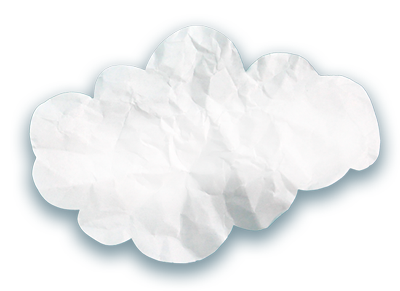
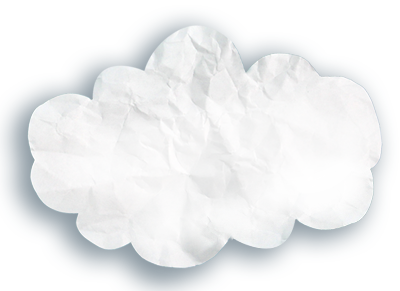
new style

diff --git a/style/style.css b/style/style.css
@@ -443,8 +443,8 @@ tbody.collapse.in { display: table-row-group; }
 
 .context-mark-body span { display: block; width: 75px; text-align: center; color: #1e4982; line-height: 14px; }
 
-.btn { position: relative; display: inline-block; width: 120px; height: 45px; background: url("../i/icons/btn.png") no-repeat center; text-align: center; color: #fff; font-size: 20px; line-height: 45px; }
-.btn:hover, .btn:focus { color: #fff; text-decoration: none; }
+.btn { position: relative; display: inline-block; width: 120px; height: 45px; background: url("../i/icons/btn.png") no-repeat; background-position: 0 0; text-align: center; color: #fff; font-size: 20px; line-height: 45px; }
+.btn:hover, .btn:focus { color: #fff; text-decoration: none; background-position: 0 -45px; }
 
 .cloud-1 { position: relative; left: 50%; margin: 0 0 0 -275px; padding: 58px 120px 0 130px; width: 550px; height: 320px; background: url("../i/cloud-1.png") center no-repeat; }
 .cloud-1 .context-title { padding: 0 25px; }
@@ -463,26 +463,26 @@ tbody.collapse.in { display: table-row-group; }
 .cloud-4 .context-title { padding: 0 80px 0 0; }
 .cloud-4 .context-inner-footer { padding: 0 40px 0 0; }
 
-@media (min-width: 767px) { .cloud-1 { left: 50%; margin: 0 0 0 -390px; padding: 40px 25px 0 58px; width: 400px; height: 223px; background: url("../i/cloud-1-m.png") center no-repeat; }
+@media (min-width: 767px) { .cloud-1 { left: 50%; margin: 0 0 0 -390px; padding: 30px 25px 0 58px; width: 400px; height: 223px; background: url("../i/cloud-1-m.png") center no-repeat; }
   .cloud-1 .context-inner-footer { padding: 8px 40px 0 10px; }
   .cloud-1 .btn { top: 0; }
   .cloud-1 .context-title { padding: 0 58px 0 16px; } }
-@media (min-width: 767px) { .cloud-2 { left: 50%; margin: 25px 0 0 -240px; padding: 70px 35px 0 48px; width: 400px; height: 310px; background: url("../i/cloud-2-m.png") center no-repeat; }
-  .cloud-2 .context-inner-footer { padding: 8px 40px 0 0; }
+@media (min-width: 767px) { .cloud-2 { left: 50%; margin: 25px 0 0 -240px; padding: 74px 35px 0 48px; width: 400px; height: 310px; background: url("../i/cloud-2-m.png") center no-repeat; }
+  .cloud-2 .context-inner-footer { padding: 5px 40px 0 0; }
   .cloud-2 .context-title { padding: 3px 25px 0 52px; } }
-@media (min-width: 767px) { .cloud-3 { left: -50%; margin: -560px -370px 0 0; padding: 55px 15px 0 45px; width: 400px; height: 286px; float: right; background: url("../i/cloud-3-m.png") center no-repeat; }
-  .cloud-3 .context-inner-footer { padding: 8px 45px 0 30px; }
+@media (min-width: 767px) { .cloud-3 { left: -50%; margin: -560px -370px 0 0; padding: 50px 15px 0 62px; width: 400px; height: 286px; float: right; background: url("../i/cloud-3-m.png") center no-repeat; }
+  .cloud-3 .context-inner-footer { padding: 8px 45px 0 20px; }
   .cloud-3 .context-title { padding: 0 50px 0 73px; } }
 @media (min-width: 767px) { .cloud-4 { left: 0; margin: -220px 0 0 70px; padding: 90px 95px 0 70px; float: left; }
   .cloud-4 .context-inner-footer { padding: 5px 0 0 130px; } }
 @media (min-width: 1260px) { .cloud-1 { left: -140px; margin: 0; }
   .cloud-2 { top: -250px; left: 270px; margin: 25px 0 0 0; }
   .cloud-3 { margin: -520px 0 0 0; left: 140px; } }
-.cloud-float { position: relative; z-index: 10; left: 50%; margin-left: -140px; width: 280px; height: 155px; background: url("../i/cloud-5-m.png") center no-repeat; padding: 35px 10px 10px 70px; }
+.cloud-float { position: relative; z-index: 10; left: 50%; margin-left: -140px; width: 280px; height: 155px; background: url("../i/cloud-5-m.png") center no-repeat; padding: 35px 10px 10px 70px; text-shadow: none; }
 .cloud-float .title { margin: 5px 0; font-size: 16px; line-height: 20px; font-weight: normal; color: #3889c9; font-family: "pf_beausans_probsemibold"; }
 .cloud-float .text-price { margin: 5px 0; font-size: 22px; color: #fba833; font-weight: normal; }
 
-@media (min-width: 767px) { .middle { margin-top: -60px; }
+@media (min-width: 767px) { .middle { margin-top: -60px; padding-bottom: 10px; }
   .cloud-float { position: absolute; z-index: 10; top: 0; left: -100px; margin: 0; padding: 40px 10px 10px 110px; } }
 @media (min-width: 1260px) { .cloud-float { left: 10%; padding: 40px 10px 10px 70px; } }
 @media (min-width: 1400px) { .cloud-float { left: 15%; } }
@@ -500,15 +500,16 @@ header { position: relative; z-index: 5; }
 .container-header .link-share { font-size: 15px; }
 
 .cloud-dobro { position: absolute; top: -3px; left: 50%; margin: 0 0 0 -132px; width: 275px; height: 130px; background: url("../i/cloud-dobro.png") center no-repeat; text-align: center; }
-.cloud-dobro a { display: inline-block; margin: 30px 0 0 -10px; width: 169px; height: 31px; }
-.cloud-dobro img { width: 169px; height: 31px; }
+.cloud-dobro a { display: inline-block; margin: 30px 0 0 -10px; width: 170px; height: 30px; }
+
+.logo-link { width: 170px; height: 30px; }
 
 @media (min-width: 767px) { .container-header { padding: 35px 0 0 0; margin: 0 auto 70px auto; }
   .container-header .link-active { position: relative; float: left; font-size: 14px; line-height: 18px; margin-left: 40px; }
   .container-header .link-active:before { content: ""; position: absolute; z-index: 10; top: -6px; left: -45px; width: 35px; height: 30px; background: url("../i/icons/i-sprite.png") no-repeat; background-position: -2px -40px; }
   .container-header .link-share { position: relative; font-size: 14px; line-height: 18px; float: right; margin-right: 40px; }
   .container-header .link-share:after { content: ""; position: absolute; z-index: 10; top: -6px; right: -40px; width: 30px; height: 30px; background: url("../i/icons/i-sprite.png") no-repeat; background-position: -5px 0; } }
-.top-text { max-width: 520px; margin: 0 auto; font-size: 14px; color: #fff; }
+.top-text { max-width: 520px; margin: 0 auto; padding: 0 17px; font-size: 14px; color: #fff; text-shadow: 0px 0px 10px #013572; }
 .top-text p { position: relative; z-index: 12; }
 
 @media (min-width: 767px) { .top-text { margin-top: 30px; padding: 35px 45px 0 45px; font-size: 18px; line-height: 22px; } }
@@ -518,7 +519,7 @@ header { position: relative; z-index: 5; }
 @media (min-width: 1440px) { .ball-layer { left: 0; top: 0; width: 100%; margin: 0; background: url("../i/ball.png") no-repeat top center; background-size: cover; } }
 .snowflake-layer { display: none; }
 
-@media (min-width: 767px) { .snowflake-layer { position: absolute; display: block; z-index: 2; top: 100px; right: 5%; width: 187px; height: 222px; background: url("../i/snowflake.png") no-repeat; background-size: contain; } }
+@media (min-width: 767px) { .snowflake-layer { position: absolute; display: block; z-index: 2; top: 100px; right: 5%; width: 127px; height: 153px; background: url("../i/snowflake.png") no-repeat; background-size: contain; } }
 @media (min-width: 1360px) { .snowflake-layer { right: 18%; } }
 @media (min-width: 1900px) { .snowflake-layer { right: 25%; } }
 /* Sticky footer styles----------------- */
@@ -530,7 +531,7 @@ body { height: 100%; background: url("../i/icons/blue4.jpg") repeat; }
 
 .wrapper { min-height: 100%; overflow: hidden; position: relative; z-index: 5; padding-bottom: 670px; background: url("../i/fonel-mob.png") center bottom no-repeat, url("../i/fon-mob.jpg") top center no-repeat; }
 
-@media (min-width: 767px) { .wrapper { padding-bottom: 330px; background: url("../i/footer-bg.png") center bottom no-repeat, url("../i/bg-new.jpg") top center no-repeat; } }
+@media (min-width: 767px) { .wrapper { padding-bottom: 330px; background: url("../i/footer-bg.png") center bottom no-repeat, url("../i/bg-new.jpg") top center repeat-x; } }
 @media (min-width: 1260px) { .wrapper { padding-bottom: 200px; } }
 .footer { position: absolute; z-index: 10; bottom: 0; left: 0; width: 100%; text-align: center; }
 .footer:before, .footer:after { content: " "; display: table; }
@@ -547,6 +548,8 @@ body { height: 100%; background: url("../i/icons/blue4.jpg") repeat; }
 .tree.status-75 { background-image: url("../i/el4.png"), url("../i/el3.png"), url("../i/el2.png"), url("../i/el.png"); background-size: contain, contain, contain, contain; }
 
 .tree.status-100 { background-image: url("../i/el5.png"), url("../i/el4.png"), url("../i/el3.png"), url("../i/el2.png"), url("../i/el.png"); background-size: contain, contain, contain, contain, contain; }
+
+.tree { -webkit-animation: tree_a 8s linear; -o-animation: tree_a 8s linear; animation: tree_a 8s linear; }
 
 @media (min-width: 480px) { .footer .girl { left: 25%; }
   .footer .tree { right: 10%; } }
@@ -572,4 +575,6 @@ body { height: 100%; background: url("../i/icons/blue4.jpg") repeat; }
 .menu-list a { color: #9999A1; }
 .menu-list a:hover { color: #E44804; }
 
-@media (min-width: 767px) { .menu-list li { display: inline-block; margin: 5px 20px 0 0; vertical-align: top; } }
+@media (min-width: 767px) { .menu-list { display: inline-block; }
+  .menu-list li { display: inline-block; margin: 5px 20px 0 0; vertical-align: top; }
+  .menu-list li:last-child { margin-right: 0; } }

diff --git a/index.html b/index.html
@@ -5,7 +5,7 @@
     <meta http-equiv="X-UA-Compatible" content="IE=edge">
     <meta name="viewport" content="width=device-width, initial-scale=1.0">
     <title>NewYear</title>
-    <link href="style/screen.css" rel="stylesheet" media="all">
+    <link href="style/style.css" rel="stylesheet" media="all">
   </head>
 <body>
     <div class="wrapper">
@@ -16,7 +16,7 @@
           <div class="container-header">
             <div class="link-active"><a href="#" class="modal-link" data-toggle="modal" data-target="#modal-dobro-5">Активировать Карту Добра</a></div>
             <div class="link-share"><a href="#">Поделиться добром</a></div>
-            <div class="cloud-dobro"><a href="#"><img src="i/icons/dobro.png" alt-""></a></div>
+            <div class="cloud-dobro"><a href="#"><img src="i/icons/dobro.png" alt-"" class="logo-link"></a></div>
           </div>
 
         </div><!-- end container -->
@@ -287,7 +287,7 @@
 
       <div class="footer">
         <div class="girl"></div>
-        <div class="tree"></div>
+        <div class="tree status-100"></div>
         <div class="social-wrap">
             <div class="social-header">
               Поделитесь добром с друзьями
